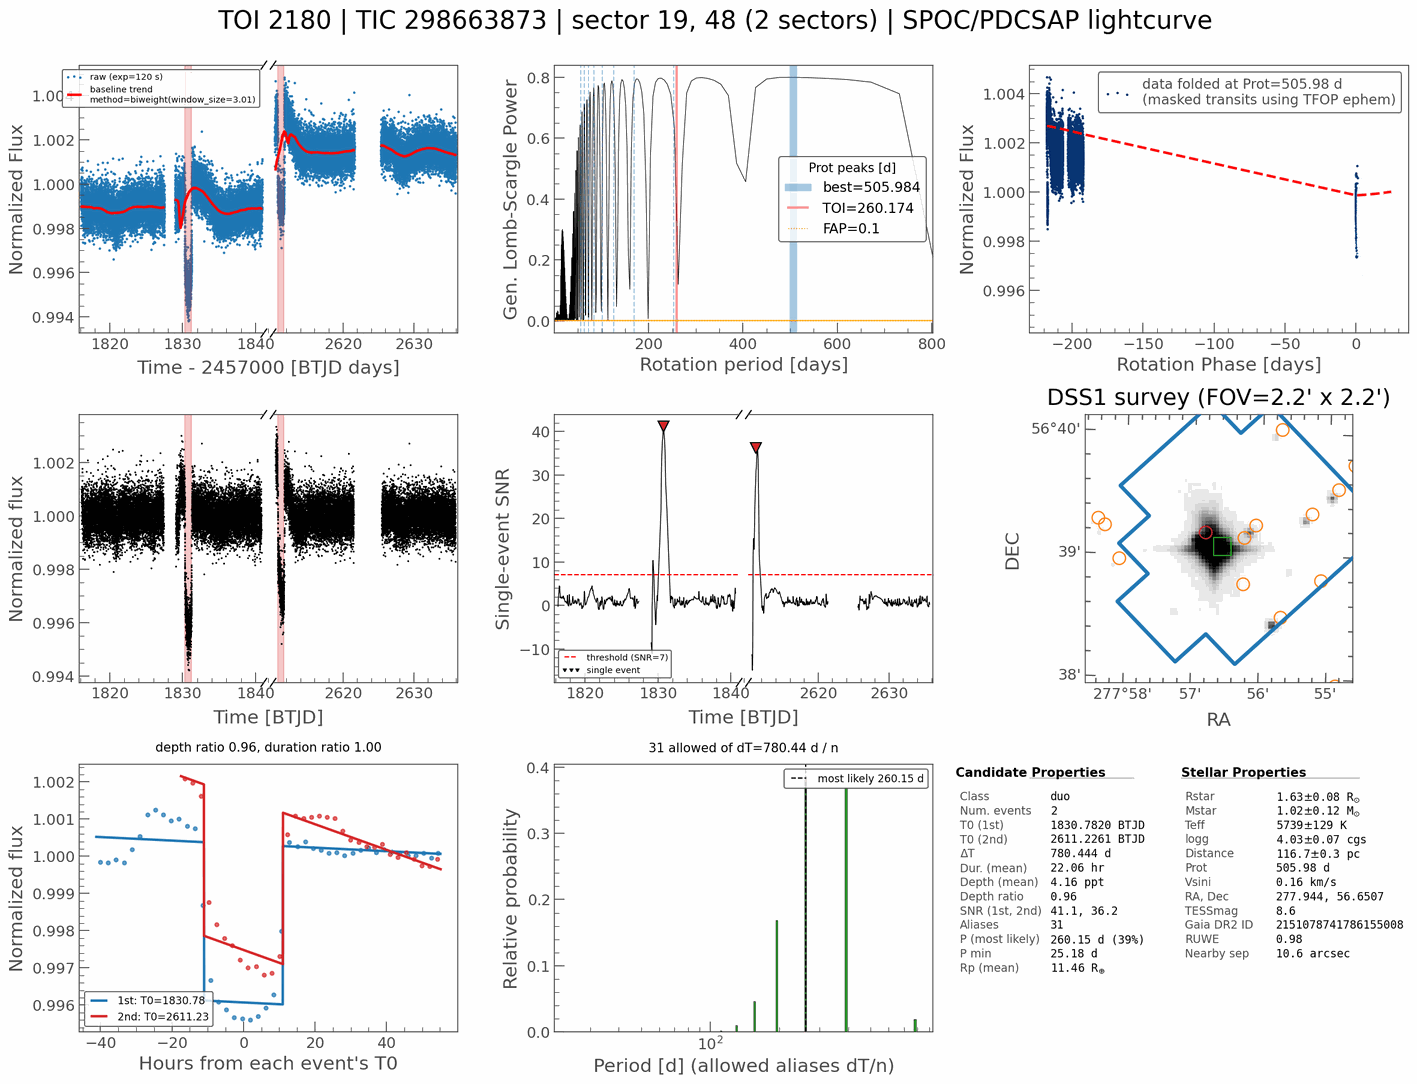
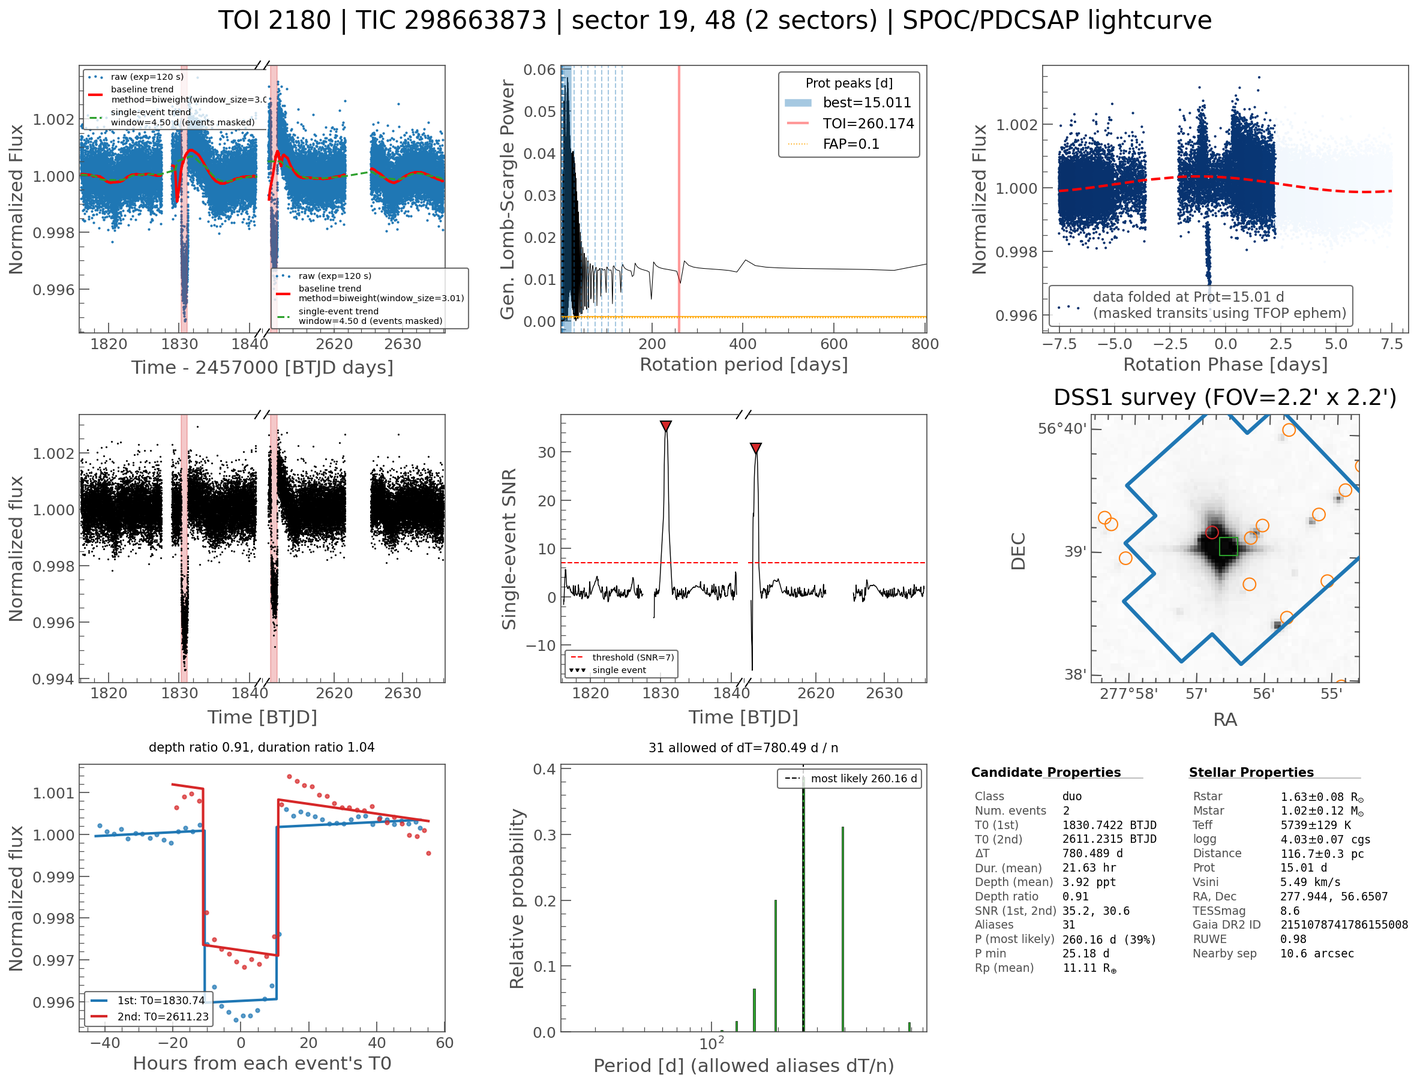
fix: stop a missing distinct_transit_count from forcing periodic
TessQuickLook._tls_is_periodic() defaulted a missing
distinct_transit_count to PERIODIC_MIN_TRANSITS itself, trivially
satisfying its own >= check. The GPU TLS backend used here never
reports this field, so the guard it was meant to provide -- requiring
genuinely confirmed transits, not just a few dT/n aliases -- was
silently disabled for every GPU TLS run.

Recompute it from the raw light curve (period/epoch/duration) instead
of assuming a value when the backend doesn't supply one. Surfaced by
regenerating the TOI-2180 duotransit doc example after the stitching
fix: SDE 22 at a ~25 d alias close to one sector's length reclassified
it from duo to periodic, though only 2 sectors' worth of data actually
support a transit at that period.

Also update the figures and text in docs/precession-search.md,
docs/ttv-search.md and docs/single-transit.md to match the current,
fixed pipeline.

diff --git a/quicklook/single_event.py b/quicklook/single_event.py
@@ -317,6 +317,31 @@ def gap_boundaries(time) -> np.ndarray:
     return np.concatenate([[time[0]], time[jumps], time[jumps + 1], [time[-1]]])
 
 
+def distinct_transit_count(time, period, epoch, duration) -> int:
+    """Number of transit cycles (at this ephemeris) with at least one in-transit point.
+
+    Not every TLS backend reports its own ``distinct_transit_count`` (the GPU
+    implementation used here never does); recompute it directly from the
+    light curve instead of assuming a value, which can hide an alias with too
+    few genuinely observed transits as "periodic" (TOI-2180 b, sectors 19+48:
+    SDE 22 at a ~25 d period close to one sector's length, with only 2
+    sectors' worth of real in-transit data, not the 3 a trivial default
+    would assume).
+    """
+    time = np.sort(np.asarray(time, dtype=float))
+    time = time[np.isfinite(time)]
+    if time.size == 0 or period is None or not (np.isfinite(period) and period > 0):
+        return 0
+    half = (
+        duration / 2.0
+        if duration is not None and np.isfinite(duration) and duration > 0
+        else _cadence(time)
+    )
+    cycle = np.round((time - epoch) / period)
+    phase = time - (epoch + cycle * period)
+    return int(np.unique(cycle[np.abs(phase) <= half]).size)
+
+
 def _pick_peaks(grid, snr, best_dur, snr_min, max_events):
     order = np.argsort(np.where(np.isfinite(snr), snr, -np.inf))[::-1]
     peaks = []

diff --git a/quicklook/single_event_pipeline.py b/quicklook/single_event_pipeline.py
@@ -31,6 +31,7 @@ from quicklook.single_event import (
     SingleEventResult,
     _cadence,
     classify_events,
+    distinct_transit_count,
     duration_grid,
     longest_segment,
     min_period,
@@ -134,13 +135,17 @@ class SingleEventMixin:
         if res is None:
             return False
         sde = res.get("SDE")
-        n_transits = res.get("distinct_transit_count", PERIODIC_MIN_TRANSITS)
-        return bool(
-            sde is not None
-            and np.isfinite(sde)
-            and sde >= PERIODIC_SDE_MIN
-            and n_transits >= PERIODIC_MIN_TRANSITS
-        )
+        if not (sde is not None and np.isfinite(sde) and sde >= PERIODIC_SDE_MIN):
+            return False
+        n_transits = res.get("distinct_transit_count")
+        if n_transits is None:
+            # Not every TLS backend reports this (the GPU implementation used
+            # here never does); assuming it trivially met PERIODIC_MIN_TRANSITS
+            # silently defeated this guard, so recompute it from the data.
+            n_transits = distinct_transit_count(
+                self.raw_lc.time.value, res.get("period"), res.get("T0"), res.get("duration")
+            )
+        return bool(n_transits >= PERIODIC_MIN_TRANSITS)
 
     def _explained_by_tls(self, event) -> bool:
         res = self.tls_results

diff --git a/tests/test_duo_pipeline.py b/tests/test_duo_pipeline.py
@@ -61,6 +61,18 @@ def test_tls_with_two_transits_does_not_block_a_duo():
     assert ql.tls_results["event_class"] == "duo"
 
 
+def test_missing_distinct_transit_count_does_not_assume_periodic():
+    # Some TLS backends (the GPU implementation used here) never report
+    # distinct_transit_count. TOI-2180 b (sectors 19+48): SDE 22 at a ~25 d
+    # period close to one sector's length, aliasing dT=700 d at n=28
+    # (700/28=25); only the 2 real sectors have in-transit data, not the 3
+    # PERIODIC_MIN_TRANSITS assumed trivially true when the key is missing.
+    tls = {"SDE": 20.0, "period": 25.0, "T0": 10.0, "duration": 0.3}
+    ql = _ql(_two_sector_lc(), tls=tls)
+    ql.run_single_event_search()
+    assert ql.tls_results["event_class"] == "duo"
+
+
 def test_inconsistent_depths_stay_mono():
     ql = _ql(_two_sector_lc(depths=(0.002, 0.010)))
     ql.run_single_event_search()

diff --git a/docs/single-transit.md b/docs/single-transit.md
@@ -130,11 +130,11 @@ ql run --name TOI-2180 --sectors 19,48 --exptime 120 --single-event-search --sav
 
 ![TOI-2180 sectors 19+48, duo layout](img/duo-transit-toi2180-s19-48.png)
 
-The two events agree in depth (4.3 and 4.1 ppt) and duration (22 h each). Of
-the 780.44/n aliases, 31 survive the coverage check (P ≥ 25.2 d). With the
-host's density (0.24 ρ<sub>☉</sub>), the true period, 260.15 d (n = 3), is the
-most likely at 39%, but 390.22 d (n = 2) is close at 37% and 195.11 d (n = 4)
-gets 17%. Two sectors alone cannot settle the period. A third sector, or a
+The two events agree in depth (4.1 and 3.7 ppt) and duration (21.2 and 22.1 h).
+Of the 780.49/n aliases, 31 survive the coverage check (P ≥ 25.2 d). With the
+host's density (0.24 ρ<sub>☉</sub>), the true period, 260.16 d (n = 3), is the
+most likely at 39%, but 390.24 d (n = 2) is close at 31% and 195.12 d (n = 4)
+gets 20%. Two sectors alone cannot settle the period. A third sector, or a
 targeted observation at a predicted time, would.
 
 ## Figure layout
